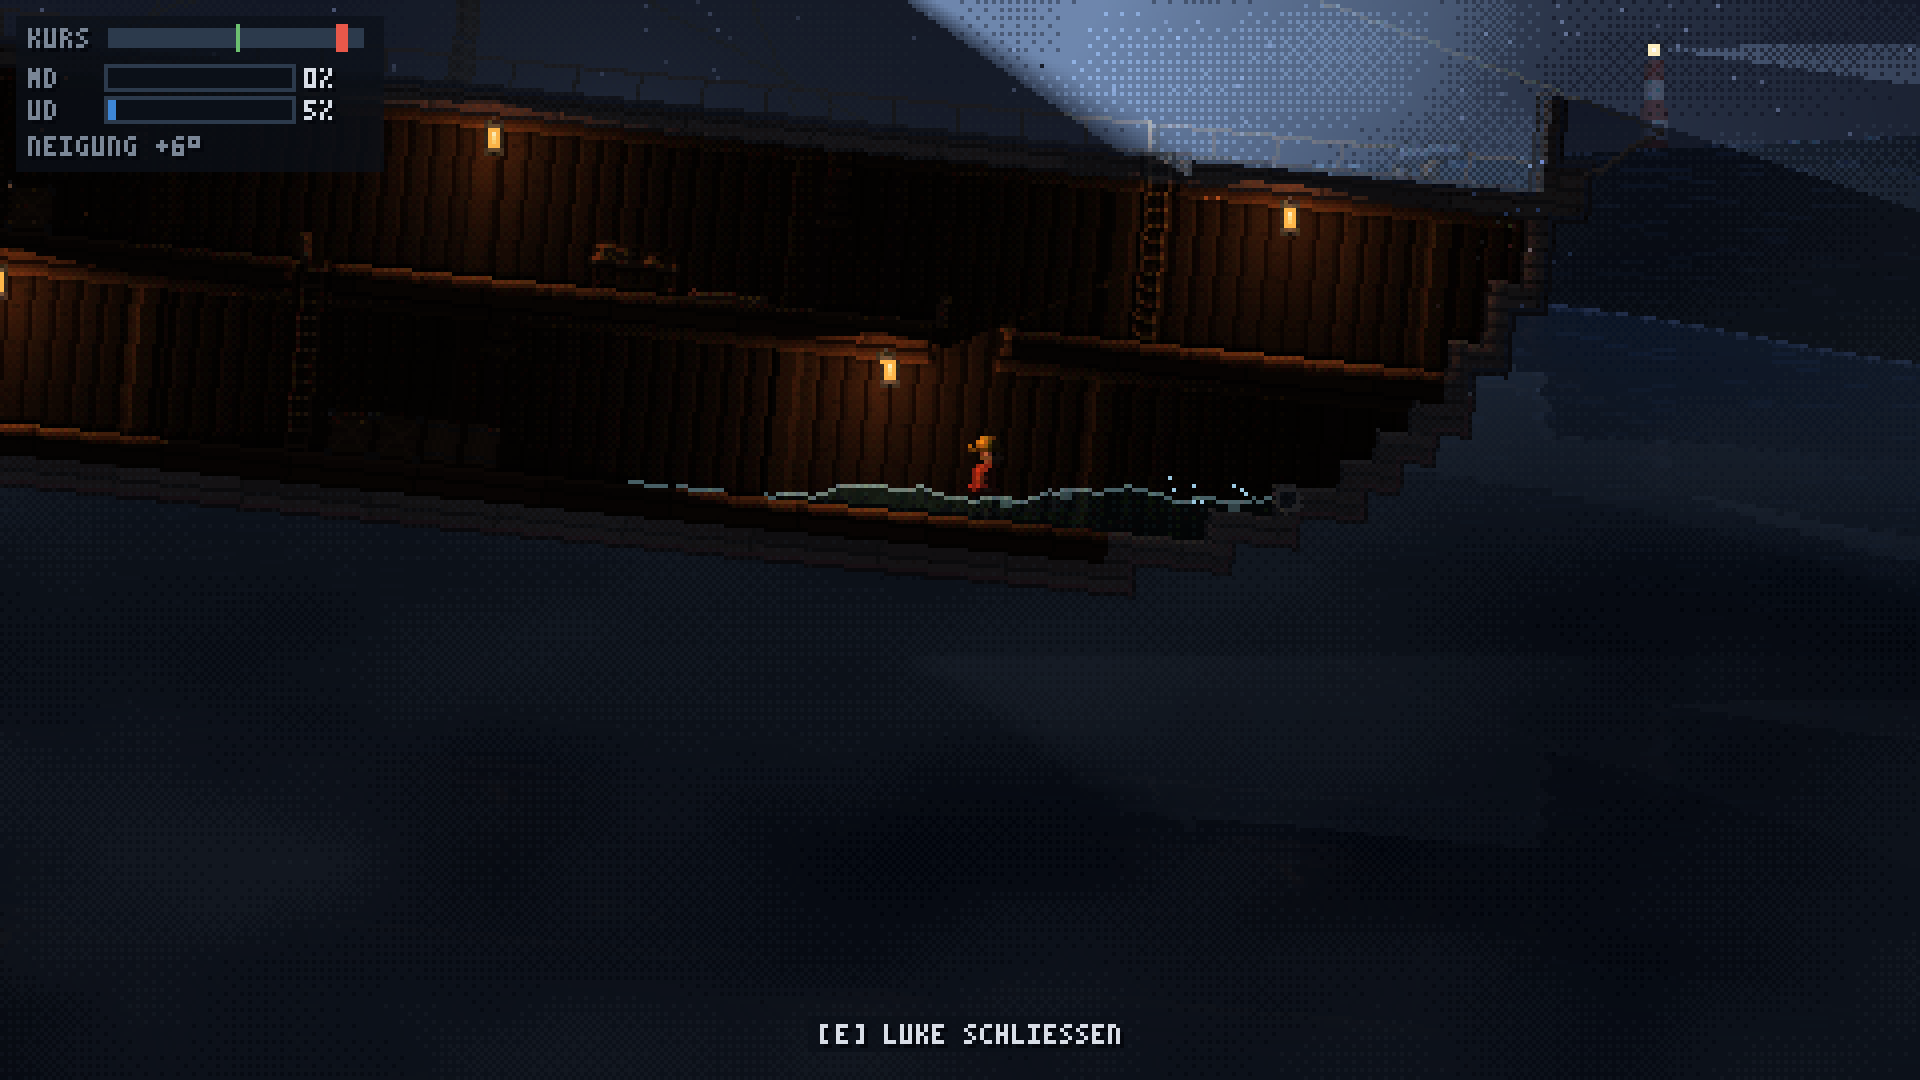
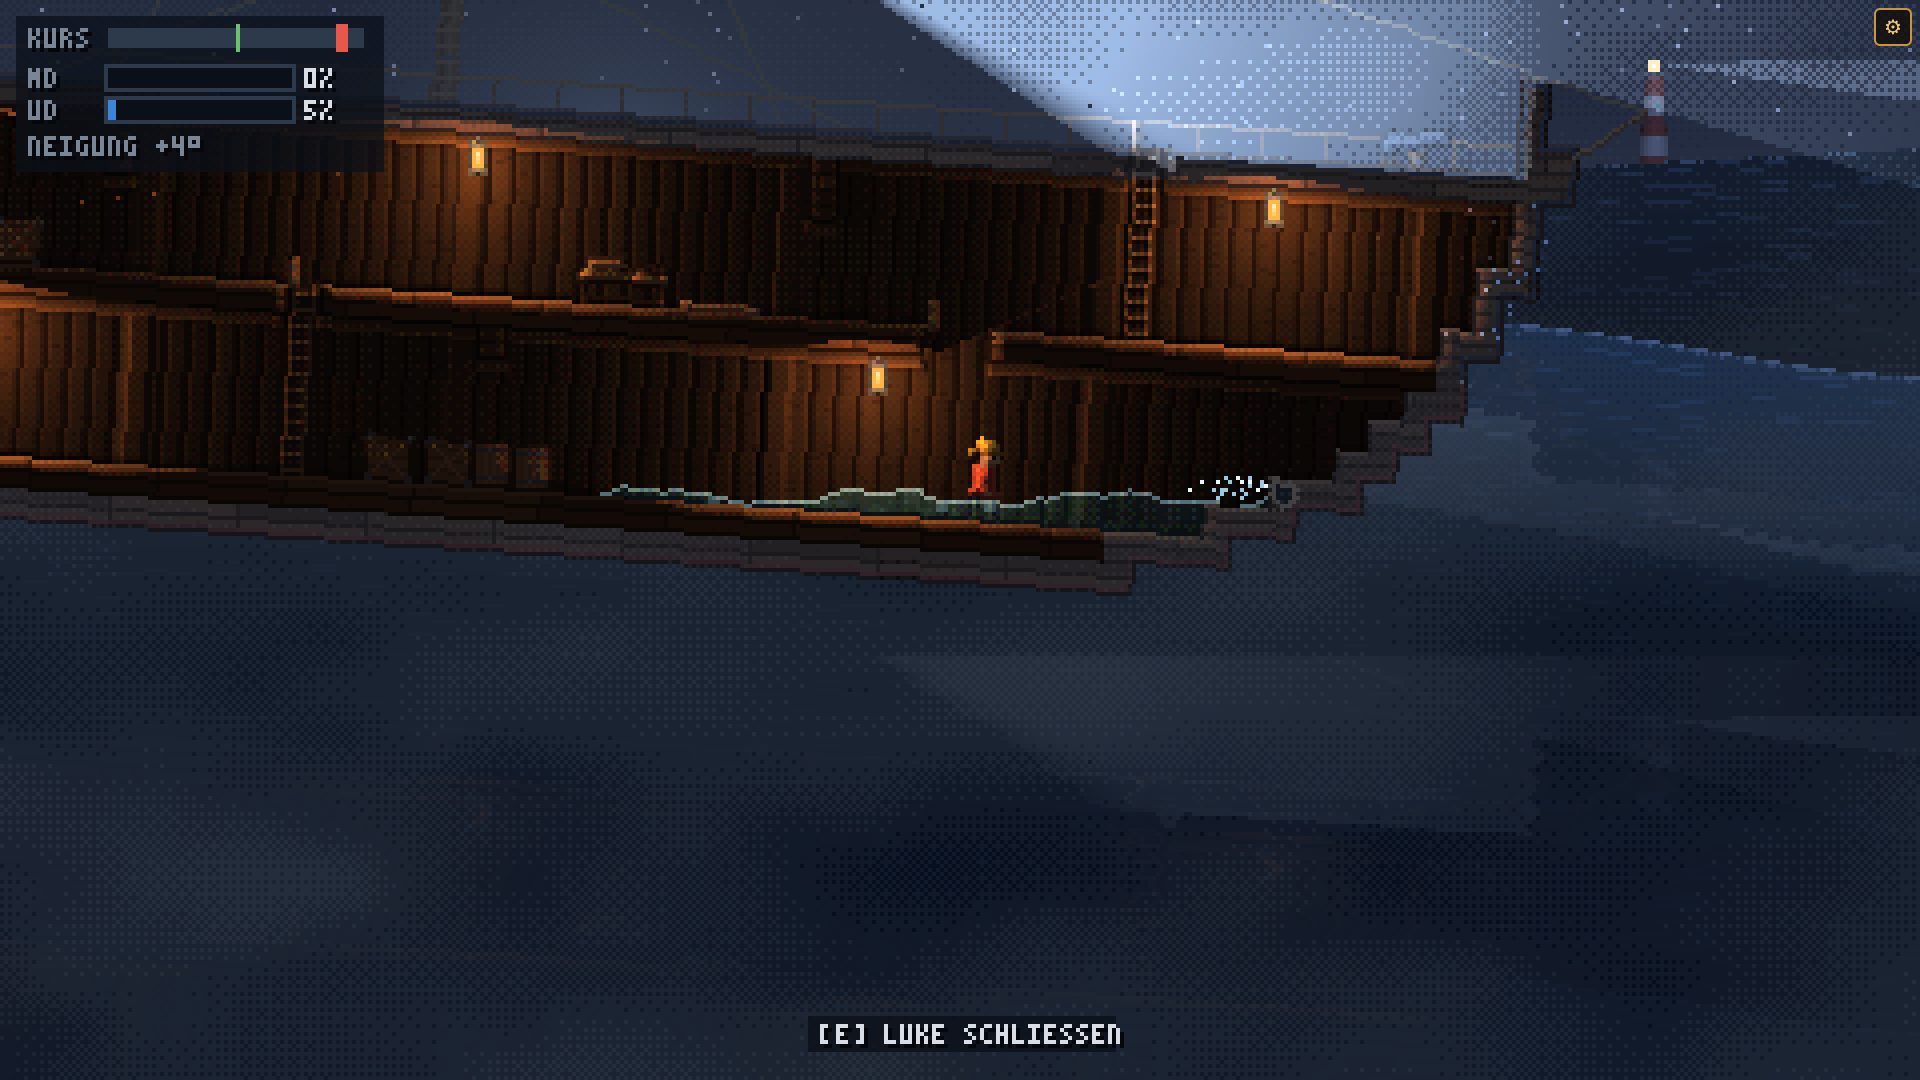
Docs and verification for feedback round 1
README: station controls, tuning panel workflow, touch icons, manual
checks for the iOS zoom fix. DECISIONS and PLAN updated. Verification
script covers the wheel widget and the tuning panel; fresh screenshots.

Claude-Session: https://claude.ai/code/session_012Hak5DpWGinFi5foozbzFZ

diff --git a/README.md b/README.md
@@ -13,6 +13,8 @@ Werkstatt, Kanone) und hält das Schiff zusammen weiter.
 | ![](screenshots/chromium-01-oberdeck.png) | ![](screenshots/chromium-02-unterdeck-leck.png) | ![](screenshots/chromium-04-licht-mitteldeck.png) |
 | **Debug-Overlay (F3)** | **Normal-Buffer (F7)** | **Touch (iPad-Viewport)** |
 | ![](screenshots/chromium-03-debug-overlay.png) | ![](screenshots/chromium-05-normal-buffer.png) | ![](screenshots/chromium-08-touch-ipad.png) |
+| **Steuerrad zum Drehen** | **Einstellungen (F9)** | |
+| ![](screenshots/chromium-09-steuerrad-widget.png) | ![](screenshots/chromium-10-einstellungen.png) | |
 
 ---
 
@@ -49,6 +51,7 @@ Weitere Befehle:
 | `?quality=high\|medium\|low` | Grafikstufe erzwingen (sonst automatisch, siehe unten) |
 | `?sea=0.3` | Seegang (0 = Flaute, 0,75 = Standard, 1,3 = Sturm) |
 | `?seed=42` | Zufalls-Seed der Simulation |
+| `?tune` | Einstellungs-Panel direkt öffnen (auch im Produktions-Build) |
 | `?h=300` | andere Ziel-Höhe der internen Auflösung |
 
 ---
@@ -65,8 +68,17 @@ Weitere Befehle:
 
 Allein spielend steuern auch die Pfeiltasten Spieler 1.
 
-**Stationen** (E): Steuerrad – A/D drehen das Ruder; Pumpe – A und D **im Wechsel** drücken, jeder volle Hub pumpt
-Wasser ab; Scheinwerfer – A/D schwenken; Kanone – A/D zielen (Feuern kommt später). E oder Leertaste verlässt die Station.
+**Stationen** (E): An jeder Station erscheint unten ein großes Bedienelement, das man mit Maus oder Finger benutzt
+(oder weiter mit A/D):
+- **Steuerrad:** am Rad entlang ziehen und drehen (±270°, die Messing-Speiche oben = Ruder mittig). Darunter Ruderlage und
+  Kursabweichung (grün = auf Kurs).
+- **Pumpe:** den Hebel rauf und runter ziehen (oder A und D **im Wechsel**). Jeder volle Hub pumpt Wasser ab.
+- **Scheinwerfer:** auf der Kompass-Scheibe in die Richtung zeigen, in die der Kegel leuchten soll. Das Rollen des Schiffs
+  wird ausgeglichen, solange man festhält.
+- **Kanone:** zielen wie beim Scheinwerfer (Feuern kommt später).
+
+E oder Leertaste verlässt die Station. Auf Touch-Geräten zeigen die Buttons E und F als Icon, was sie gerade tun würden
+(Steuerrad, Pumpe, Luke, Hammer, Planke, Aufheben …). Ist ein Button grau, gibt es dort gerade nichts zu tun.
 
 **Debug-Tasten**
 
@@ -80,6 +92,7 @@ Wasser ab; Scheinwerfer – A/D schwenken; Kanone – A/D zielen (Feuern kommt s
 | F6 | Nebel an/aus |
 | F2 | zweiten lokalen Spieler hinzufügen/entfernen |
 | F8 | Neustart |
+| F9 | Einstellungen (auch über ⚙ oben rechts im Dev-Server) |
 
 ### Einmal durchspielen (Testablauf)
 1. **L** drücken → „LECK!“, die nächste Figur ruft per Sprechblase, im Unterdeck spritzt Wasser herein.
@@ -91,11 +104,29 @@ Wasser ab; Scheinwerfer – A/D schwenken; Kanone – A/D zielen (Feuern kommt s
 
 ---
 
+## Werte live einstellen (F9 / ⚙)
+
+Das Einstellungs-Panel ändert Spiel- und Grafikwerte **während des Spiels**: Helligkeit, Gamma, Mondlicht, Grundlicht unter
+Deck, Laternen, Scheinwerfer, Nebel, Licht-Stufen, Laufgeschwindigkeit, Beschleunigung, Sprungkraft, Schwerkraft, Rutschen,
+Seegang, Rollverhalten, Leck-Einstrom, Pumpe und mehr.
+
+- Geänderte Werte werden **gold** markiert, ↺ setzt einen Wert zurück.
+- Änderungen merkt sich das Gerät (localStorage), auch nach dem Neuladen.
+- **„Als Standard speichern“** schreibt alle Werte über den Dev-Server (`npm run dev`) in
+  `shared/src/tuning.json` (Spielwerte) und `client/src/look.json` (Grafik). Die Seite lädt dann mit den neuen
+  Standardwerten neu – committen, fertig. Das funktioniert auch vom iPad aus, wenn es per WLAN auf den Dev-Server zugreift.
+- Ohne Dev-Server (Produktions-Build) gibt es stattdessen „JSON kopieren“.
+- Die Spielwerte laufen als Befehl durch die Simulation (`{ type: 'tune' }`) – in Phase 3 kann der Server sie genauso
+  übernehmen, damit alle Geräte mit denselben Werten spielen.
+
+---
+
 ## Projektstruktur
 
 ```
 shared/   Simulation: Physik (Rapier2D), Regeln, State – kein DOM, kein Rendering
   src/layout/shipMap.ts      das Schiff als ASCII-Karte (hier umbauen!)
+  src/tuning.json            alle Spielwerte (vom Einstellungs-Panel gespeichert)
   src/layout/parseLayout.ts  leitet Collider, Licht-Occluder, Leitern, Luken, Wasserräume ab
   src/simulation.ts          Simulation-Klasse: sim.step(inputs, dt, commands) → sim.state
   src/ship.ts, sea.ts        Wellenfunktion, Rollen/Heave, rotierte Schwerkraft
@@ -106,6 +137,9 @@ client/   Rendering (PixiJS v8), Input, HUD
   src/render/lighting/       Sichtbarkeits-Polygone + Light-System
   src/render/shaders.ts      alle GLSL-Shader (Licht, Composite/Nebel, Meer, Rumpfwasser)
   src/render/ShipView.ts     alles auf dem Schiff (inkl. schwingender Laternen als Deko-Physik)
+  src/look.json              Grafikwerte: Helligkeit, Licht, Nebel (vom Einstellungs-Panel gespeichert)
+  src/ui/StationWidget.ts    Steuerrad, Pumpenhebel, Kompass-Scheibe
+  src/ui/TuningPanel.ts      Einstellungs-Panel (F9)
   public/assets/             Platzhalter-Grafiken (+ README zum Austausch gegen Aseprite-Exporte)
 server/   leer – Phase 3 (Colyseus)
 scripts/  Asset-Generator, Browser-Verifikation
@@ -126,7 +160,7 @@ Begründung stehen in [`DECISIONS.md`](DECISIONS.md), der Arbeitsplan in [`PLAN.
   verändert das Gewicht
 - Spieler: Laufen, Springen (Coyote-Time + Sprung-Puffer), Klettern, durch offene Luken klettern/fallen, Tragen (verlangsamt),
   Schwimmen bei hohem Wasserstand, Mann-über-Bord mit Respawn
-- Spürbares, aber steuerbares Rutschen bei Schlagseite (bei 15° ca. 1,8 m/s Drift, Laufen 4,2 m/s)
+- Spürbares, aber steuerbares Rutschen bei Schlagseite (bei 15° ca. 1,8 m/s Drift, Laufen 5,6 m/s)
 - Kisten, Fässer, Planken rutschen und kippen, schwimmen auf Wasser
 - Stationen: Steuerrad (Kurs + Rollverhalten + Krängung), Pumpe, Scheinwerfer, Werkstatt, Kanone (nur Zielen)
 - Test-Leck (L), Einstrom abhängig von der Tiefe unter der echten Wasserlinie, Reparatur mit Planke
@@ -201,10 +235,12 @@ Debug-Overlay (F3 bzw. `?debug`).
 - [ ] **iPad + Safari:** Seite per WLAN öffnen, `?debug` anhängen → FPS ablesen (Ziel: stabil 60, Qualität bleibt „high“).
       Falls die Stufe auf medium/low fällt: Ist das Bild trotzdem pixelscharf (CSS `image-rendering: pixelated`)?
 - [ ] **Safari am Mac** und **Chrome auf den Schul-Laptops** (1366×768 → intern 455×256 ×3): Darstellung, FPS, Konsole.
-- [ ] **Touch:** Stick (laufen, Leiter hoch/runter), Buttons ⤒/E/F, Pumpe per Stick links/rechts im Wechsel, Steuerrad.
-      Kein Zoomen/Scrollen beim Spielen? Mehrere Finger gleichzeitig (Stick + Springen)?
+- [ ] **Touch:** Stick (laufen, Leiter hoch/runter), Buttons ⤒/E/F mit Kontext-Icons, Steuerrad mit dem Finger drehen,
+      Pumpenhebel ziehen, Scheinwerfer-Scheibe. **Doppeltippen auf einen Button darf nicht mehr zoomen** (iOS ignoriert
+      `user-scalable=no`, deshalb werden die Touch-Gesten jetzt per Skript blockiert – nur auf einem echten iPad prüfbar).
+      Mehrere Finger gleichzeitig (Stick + Springen)? Lässt sich das Einstellungs-Panel noch scrollen?
 - [ ] **Gefühl:** Rutschen bei Schlagseite (F4 fixiert ±15°), Sprunghöhe, Tempo beim Tragen, Pumpen vs. Leck-Einstrom –
-      alle Werte stehen gesammelt in `shared/src/player.ts`, `shared/src/simulation.ts` (`GAMEPLAY`) und `shared/src/ship.ts`.
+      alles im Einstellungs-Panel (F9) live justieren und als Standard speichern.
 - [ ] **Licht:** Schatten der Laternen an Schotten/Decken, Scheinwerfer im Nebel (F6 schaltet den Nebel zum Vergleich ab).
 - [ ] **Zwei Spieler lokal** (F2): beide Steuerungen gleichzeitig, Kamera.
 - [ ] Optional: `npx playwright install webkit` und `npm run verify` für die WebKit-Screenshots.

diff --git a/DECISIONS.md b/DECISIONS.md
@@ -22,7 +22,7 @@ Format: **Entscheidung** – Begründung.
 - **Fester Timestep über `FixedStepper` (Accumulator, max. 6 Steps/Frame, Frame-Zeit auf 0,25 s begrenzt).** Verhindert die „Todesspirale“ auf langsamen Geräten.
 - **Rollen kommt aus der Wellen-Steigung, nicht aus Bug-/Heck-Höhen.** Ein 36 m-Schiff würde in realistischen Wellen kaum kippen. Ziel-Rollwinkel = −atan(gemittelte Wellensteigung) × Response, begrenzt auf ±15°, mit Feder-Dämpfer-Trägheit (≈ 4 s Periode). Wasser im Rumpf (Moment) und Ruder erzeugen zusätzlich Schlagseite (bis ±26° gesamt).
 - **Schwerkraft im Schiffs-Frame = R(−roll)·(0, g·(1 − a_heave·0,6/9,81)).** Die Heave-Beschleunigung lässt Sprünge auf Wellenbergen leicht anders wirken.
-- **Spieler-Controller: dynamischer Rapier-Body mit fester Rotation, Schwerkraft manuell (gravityScale 0).** Am Boden wird die Geschwindigkeit auf `Input × Tempo + Rutschtempo` geregelt, Rutschtempo = tangentiale Schwerkraft × 0,32 s (bei 15° ≈ 1,8 m/s, Laufen 4,2 m/s): spürbar, aber immer steuerbar. In der Luft wirkt die seitliche Schwerkraft voll. Vorteil gegenüber reiner Reibung: exakt tunebar und unabhängig vom Rapier-Reibungsmodell.
+- **Spieler-Controller: dynamischer Rapier-Body mit fester Rotation, Schwerkraft manuell (gravityScale 0).** Am Boden wird die Geschwindigkeit auf `Input × Tempo + Rutschtempo` geregelt, Rutschtempo = tangentiale Schwerkraft × 0,32 s (bei 15° ≈ 1,8 m/s, Laufen anfangs 4,2, jetzt 5,6 m/s): spürbar, aber immer steuerbar. In der Luft wirkt die seitliche Schwerkraft voll. Vorteil gegenüber reiner Reibung: exakt tunebar und unabhängig vom Rapier-Reibungsmodell.
 - **Spieler-Kapsel 0,44 × 1,28 m** – schmaler als eine Luke (0,5 m), sonst passt man nicht hindurch. Das Sprite darf breiter wirken.
 - **Spieler kollidieren nicht miteinander** (Koop im engen Schiff: sonst blockiert man sich an Leitern/Türen).
 - **Offene Luken mit Leiter sind One-Way-Plattformen** (eigene Kollisionsgruppe, pro Spieler über den Collision-Filter aktiviert, solange der Spieler nicht klettert und nicht in der Luke steckt). Offene Luken ohne Leiter (Frachtluke) sind echte Löcher. Geschlossene Luken sind solide, blockieren Wasser und Licht. Schließen ist blockiert, solange etwas in der Öffnung steckt.
@@ -56,3 +56,28 @@ Format: **Entscheidung** – Begründung.
 ## Verifikation
 - **Playwright 1.56.1 fest gepinnt**, passend zum vorinstallierten Chromium der Build-Umgebung. WebKit konnte hier nicht installiert werden (`playwright install` ist in der Umgebung untersagt); `scripts/verify-browser.mjs` testet WebKit automatisch mit, sobald es lokal installiert ist (`npx playwright install webkit`).
 - **Headless-Chromium rendert per SwiftShader (Software-GPU auf 4 CPU-Kernen).** Die dort gemessenen FPS sagen nichts über echte Geräte aus; dokumentiert sind sie trotzdem (README), zusammen mit der reinen CPU-Zeit pro Frame.
+
+## Feedback-Runde 1
+- **Alle Spielwerte als Daten (`shared/src/tuning.json` + `tuning.ts`), jede Simulation hat ihre eigene Kopie.** Änderungen
+  laufen als `SimCommand` `{ type: 'tune', patch }` – genau wie später übers Netzwerk. Feste Körpermaße (Kapselgröße) bleiben
+  Konstanten (`PLAYER_SHAPE`), weil der Collider nicht live umgebaut werden soll.
+- **Grafikwerte getrennt in `client/src/look.json`**, weil sie nur den Client betreffen (der Server braucht sie nicht).
+  Helligkeit wirkt als Exposure + Gamma im Composite, Mond- und Innenlicht skalieren feste Farbtöne.
+- **Speichern über einen Vite-Dev-Server-Endpunkt (`POST /__tuning`)** statt nur localStorage: so werden die Werte zu echten
+  Projekt-Defaults im Repo. Der Endpunkt schreibt ausschließlich in die beiden JSON-Dateien und übernimmt nur Schlüssel, die
+  dort schon existieren, und nur endliche Zahlen. Er existiert nur in `npm run dev`. Lokale, noch nicht gespeicherte
+  Änderungen merkt sich das Gerät in localStorage.
+- **Hellere Standardwerte:** Exposure 1,3, Gamma 0,85, mehr Mond- und Innenlicht, Laternen 2,1 statt 1,8 mit größerer
+  Reichweite. **Laufen 5,6 statt 4,2 m/s** (Beschleunigung 44).
+- **Analoger Stations-Input (`PlayerInput.target`)** statt Mausposition in der Simulation: Das UI-Widget erzeugt nur einen
+  Zielwert (Ruderlage, Hebelstellung, Winkel), die Simulation bewegt die Station mit begrenzter Geschwindigkeit dorthin.
+  Touch und Tastatur sind dadurch gleich stark, und der Input bleibt reine Daten fürs Netzwerk.
+- **Stations-Widgets im Low-Res-HUD (Pixel-Art, Pointer-Events im Capture-Modus)**, damit ein Ziehen am Steuerrad nicht
+  gleichzeitig den Touch-Stick startet. Steuerrad: ±270° Drehweg = volles Ruder; Kompass-Scheibe zeigt Weltrichtungen
+  (Rollwinkel wird ausgeglichen).
+- **Touch-Buttons als Pixel-Art im Spiel-Pixelraster** (Canvas-Elemente, CSS-Größe = Spielpixel × Skalierung) mit
+  **Kontext-Icons** aus der Simulation (`interactionHints` liefert sprachunabhängige Icon-Schlüssel) – wichtig, weil im
+  Unterricht nicht gesprochen wird.
+- **Zoom-Schutz für iOS:** Safari ignoriert `user-scalable=no`. `touchstart/touchmove/touchend` werden außerhalb von
+  Bereichen mit Klasse `allow-touch` (Einstellungs-Panel) per `preventDefault` blockiert, dazu `gesturestart` und `dblclick`.
+  Pointer-Events (Stick, Buttons, Widgets) sind davon nicht betroffen.

diff --git a/PLAN.md b/PLAN.md
@@ -69,3 +69,10 @@ Legende: `[x]` erledigt, `[ ]` offen. Jeder Schritt endet mit `npm run build`, `
 - [x] Reling-Tiles (`|`), Buffer-Ansicht F7, Qualitätsstufen mit Auto-Fallback
 - [x] Asset-Generator schützt von Hand ersetzte Grafiken (`.generated.json`)
 - [x] Client-Tests (Sichtbarkeits-Polygone, Pixel-Skalierung, Input-Latching), Sink-/Neustart-Test
+
+## Feedback-Runde 1
+- [x] Laufen schneller (5,6 m/s), Grafik standardmäßig heller
+- [x] Einstellungs-Panel (F9 / ⚙): Spiel- und Grafikwerte live, lokal gemerkt, „Als Standard speichern“ schreibt `tuning.json` / `look.json`
+- [x] Stationen mit echten Bedienelementen: Steuerrad drehen, Pumpenhebel ziehen, Kompass-Scheibe für Scheinwerfer/Kanone
+- [x] Touch: Pixel-Art-Stick und -Buttons, Kontext-Icons für E/F, Doppeltipp-/Pinch-Zoom blockiert
+- [x] Tests: Tuning (Patch, Befehl, Datei vollständig), analoger Stations-Input, Look-Werte
